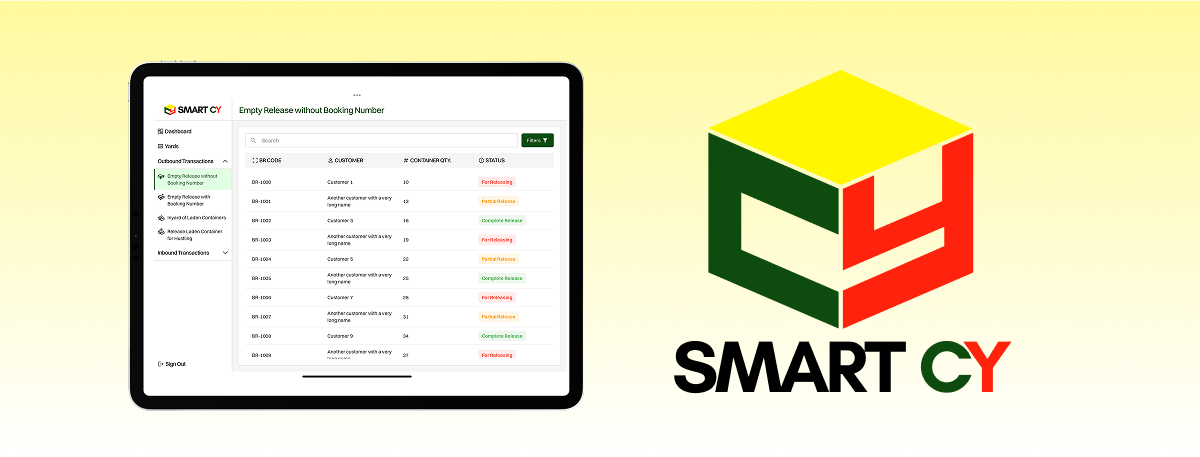
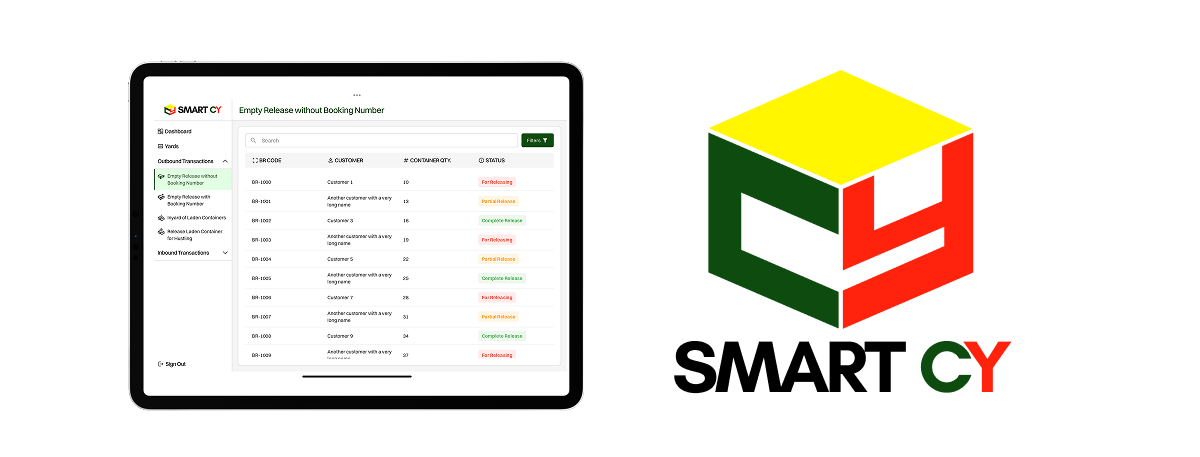
fixed image containe for projects

diff --git a/style.css b/style.css
@@ -524,9 +524,9 @@ hr {
     text-align: center;
     background-repeat: no-repeat;
     background-position: center;       
-    background-size: cover; 
+    background-size: contain; 
     transition: 0.2s ease-in-out;
-    clip-path: circle(50% at 50% 50%);
+    clip-path: circle(45% at 50% 50%);
 }
 
 #Folderly{
@@ -546,16 +546,22 @@ hr {
 }
 
 @media screen and (min-width: 1024px) {
+    #Folderly:hover{
+        background-image: 
+        url('assets/images/folderlyShown.png'),
+        linear-gradient(to bottom, #4CA6FF, white);
+    }
+
     #UPSee:hover{
-        background-image: url('assets/images/upseeShown.png');
+        background-image: 
+        url('assets/images/upseeShown.png'),
+        linear-gradient(to bottom, #B2D789, white);
     }
 
     #SmartCY:hover{
-        background-image: url('assets/images/smartcyShown.png');
-    }
-
-    #Folderly:hover{
-        background-image: url('assets/images/folderlyShown.png');
+        background-image: 
+        url('assets/images/smartcyShown.png'),
+        linear-gradient(to bottom, #FFF99D, white);
     }
 }
 
@@ -578,15 +584,21 @@ hr {
     }
 
     #Folderly{
-        background-image: url('assets/images/folderlyMobile.png');
+        background-image: 
+        url('assets/images/folderlyMobile.png'),
+        linear-gradient(to bottom, #4CA6FF, white);
     }
 
     #UPSee{
-        background-image: url('assets/images/upseeMobile.png');
+        background-image: 
+        url('assets/images/upseeMobile.png'),
+        linear-gradient(to bottom, #B2D789, white);
     }
     
     #SmartCY{
-        background-image: url('assets/images/smartcyMobile.png');
+        background-image: 
+        url('assets/images/smartcyMobile.png'),
+        linear-gradient(to bottom, #FFF99D, white);
     }
 }
 
@@ -604,15 +616,21 @@ hr {
     }
 
     #Folderly{
-        background-image: url('assets/images/folderlyMobile.png');
+        background-image: 
+        url('assets/images/folderlyMobile.png'),
+        linear-gradient(to bottom, #4CA6FF, white);
     }
 
     #UPSee{
-        background-image: url('assets/images/upseeMobile.png');
+        background-image: 
+        url('assets/images/upseeMobile.png'),
+        linear-gradient(to bottom, #B2D789, white);
     }
     
     #SmartCY{
-        background-image: url('assets/images/smartcyMobile.png');
+        background-image: 
+        url('assets/images/smartcyMobile.png'),
+        linear-gradient(to bottom, #FFF99D, white);
     }
 }
 
